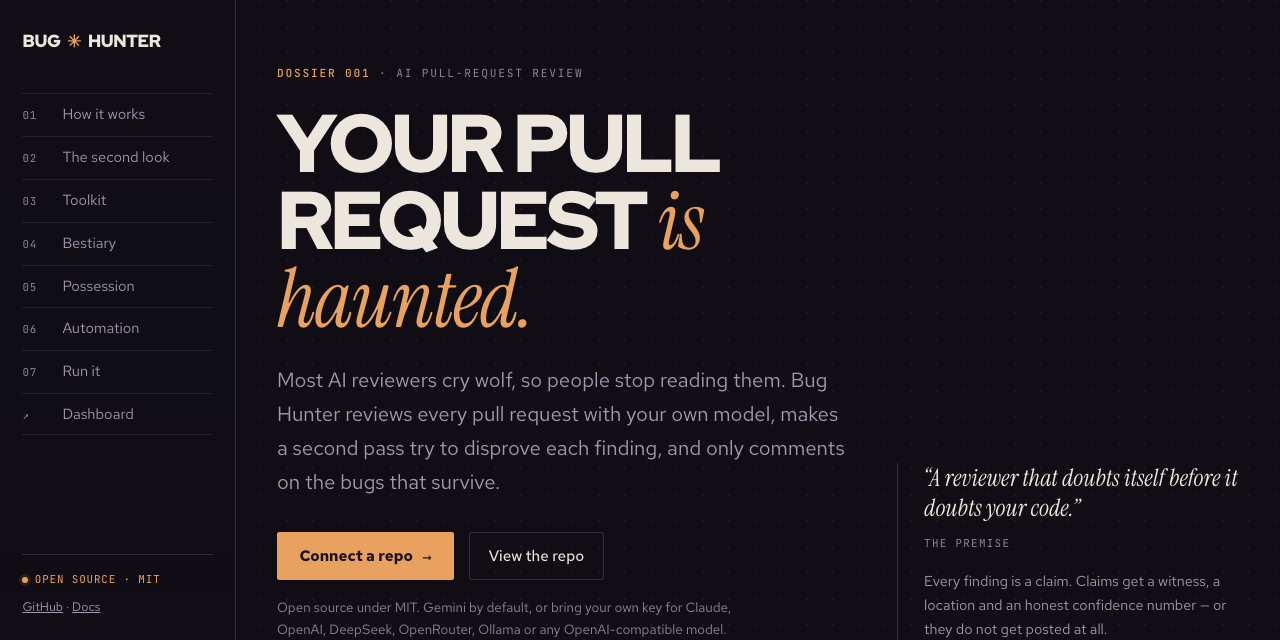
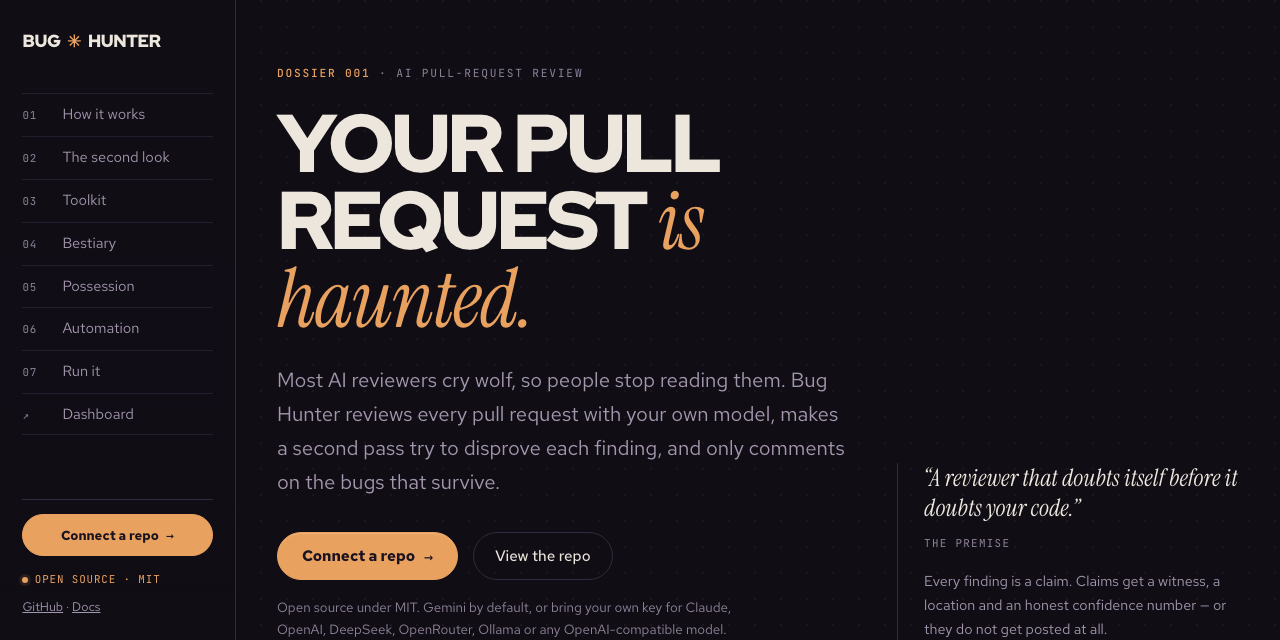
design: rounded, cleaner buttons across the site
- pill CTAs (999px) with inset highlight and a soft amber hover glow
- landing: rail gains a persistent Connect a repo pill; replay/copy/pipeline
  buttons are pills too
- app shell: every button/.btn/.btn-ghost is a pill; the top bar gains a
  Connect a repo CTA (hidden on /connect itself); hover uses the same glow
- fix .rail-foot a specificity so the rail CTA keeps its dark-on-amber label
- OG image regenerated

Changed region(s): [[0.0, 0.7812, 0.1875, 0.875], [0.2188, 0.8125, 0.4688, 0.9062]]

diff --git a/src/render/landing.html b/src/render/landing.html
@@ -93,6 +93,17 @@
   .rail-nav a:hover { color: var(--ink); padding-left: .3rem; }
   .rail-nav .n { font-family: var(--font-mono); font-size: .68rem; color: var(--dim); letter-spacing: .08em; }
   .rail-foot { border-top: 1px solid var(--line); padding-top: .9rem; font-size: .78rem; color: var(--dim); }
+  .rail-cta {
+    display: flex; align-items: center; justify-content: center; gap: .45rem;
+    min-height: 42px; margin-bottom: .8rem; border-radius: 999px;
+    background: var(--amber); color: #191220; border: 1px solid var(--amber);
+    font: 700 .82rem/1 var(--font-body); text-decoration: none;
+    transition: background-color .15s var(--ease), transform .15s var(--ease);
+  }
+  .rail-cta::after { content: "→"; font-family: var(--font-mono); font-weight: 400; }
+  .rail-foot a.rail-cta { color: #191220; text-decoration: none; }
+  .rail-foot a.rail-cta:hover { color: #191220; background: #f0b075; text-decoration: none; }
+  .rail-cta:active { transform: translateY(1px); }
   .rail-foot a { color: var(--muted); }
   .rail-foot .pulse {
     display: inline-flex; align-items: center; gap: .4rem;
@@ -146,21 +157,22 @@
   .hero-aside .byline { margin-top: .8rem; font-family: var(--font-mono); font-size: .68rem; letter-spacing: .12em; text-transform: uppercase; color: var(--dim); }
   .cta-row { display: flex; flex-wrap: wrap; align-items: center; gap: .9rem; margin-top: 2.1rem; }
   .btn {
-    display: inline-flex; align-items: center; gap: .6rem; min-height: 48px;
-    padding: .7rem 1.35rem; border: 1px solid var(--amber); background: var(--amber); color: #191220;
-    font: 700 .95rem/1 var(--font-body); text-decoration: none; border-radius: 2px;
-    transition: transform .15s var(--ease), background-color .15s var(--ease);
+    display: inline-flex; align-items: center; gap: .55rem; min-height: 48px;
+    padding: .78rem 1.5rem; border: 1px solid var(--amber); background: var(--amber); color: #191220;
+    font: 700 .95rem/1 var(--font-body); text-decoration: none; border-radius: 999px;
+    box-shadow: 0 1px 0 rgba(255, 255, 255, .18) inset;
+    transition: transform .15s var(--ease), background-color .15s var(--ease), box-shadow .15s var(--ease);
   }
   .btn::after { content: "→"; font-family: var(--font-mono); font-weight: 400; }
-  .btn:hover { background: #f0b075; }
+  .btn:hover { background: #f0b075; box-shadow: 0 6px 18px -10px rgba(233, 161, 95, .7); }
   .btn:active { transform: translateY(1px); }
   .btn-ghost {
-    display: inline-flex; align-items: center; min-height: 48px; padding: .7rem 1.2rem;
-    border: 1px solid var(--line); color: var(--ink); border-radius: 2px;
+    display: inline-flex; align-items: center; min-height: 48px; padding: .78rem 1.35rem;
+    border: 1px solid var(--line); color: var(--ink); border-radius: 999px;
     font: 500 .95rem/1 var(--font-body); text-decoration: none;
-    transition: border-color .15s var(--ease), color .15s var(--ease);
+    transition: border-color .15s var(--ease), color .15s var(--ease), background-color .15s var(--ease);
   }
-  .btn-ghost:hover { border-color: var(--amber); color: var(--amber); }
+  .btn-ghost:hover { border-color: var(--amber); color: var(--amber); background: rgba(233, 161, 95, .06); }
   .cta-note { margin-top: 1rem; font-size: .84rem; color: var(--dim); max-width: 52ch; }
 
   /* evidence exhibit */
@@ -205,7 +217,7 @@
   .replay {
     font: 500 .72rem/1 var(--font-mono); letter-spacing: .08em; text-transform: uppercase;
     color: var(--ink); background: transparent; border: 1px solid var(--line);
-    padding: .5rem .8rem; cursor: pointer; border-radius: 2px; min-height: 40px;
+    padding: .55rem 1rem; cursor: pointer; border-radius: 999px; min-height: 40px;
   }
   .replay:hover { border-color: var(--amber); color: var(--amber); }
   .replay:disabled { opacity: .5; cursor: default; }
@@ -348,7 +360,7 @@
   .btn-line {
     font: 500 .78rem/1 var(--font-mono); letter-spacing: .08em; text-transform: uppercase;
     background: transparent; border: 1px solid var(--line); color: var(--ink);
-    padding: .55rem .8rem; cursor: pointer; border-radius: 2px; min-height: 40px;
+    padding: .6rem 1rem; cursor: pointer; border-radius: 999px; min-height: 40px;
   }
   .btn-line:hover { border-color: var(--amber); color: var(--amber); }
   .btn-line:disabled { opacity: .5; cursor: default; }
@@ -449,6 +461,7 @@
     </nav>
   </div>
   <div class="rail-foot">
+    <a class="rail-cta" href="#connect">Connect a repo</a>
     <span class="pulse">Open source · MIT</span>
     <p><a href="#repo" id="repo-link-rail">GitHub</a> · <a href="https://github.com/dk3yyyy/bug-hunter/tree/main/docs">Docs</a></p>
   </div>

diff --git a/src/render/pages.ts b/src/render/pages.ts
@@ -45,6 +45,7 @@ a:hover{text-decoration:underline;text-underline-offset:3px}
 .nav{display:flex;gap:1.2rem;flex-wrap:wrap;margin-left:auto}
 .nav a{font-family:var(--font-mono);font-size:.7rem;letter-spacing:.1em;text-transform:uppercase;color:var(--muted)}
 .nav a:hover{color:var(--ink);text-decoration:none}
+.bar .btn{min-height:38px;padding:.5rem 1rem;font-size:.8rem}
 .tag{font-family:var(--font-mono);font-size:.62rem;letter-spacing:.1em;text-transform:uppercase;color:var(--dim);border:1px solid var(--line);padding:.2rem .5rem}
 .eyebrow{display:block;margin:2.4rem 0 0;font-family:var(--font-mono);font-size:.68rem;letter-spacing:.14em;text-transform:uppercase;color:var(--dim)}
 .eyebrow b{color:var(--accent);font-weight:500}
@@ -64,12 +65,12 @@ p{max-width:70ch}
 label{display:block;margin:.9rem 0 .35rem;font-family:var(--font-mono);font-size:.64rem;letter-spacing:.1em;text-transform:uppercase;color:var(--dim)}
 input,textarea{display:block;width:100%;min-height:46px;margin:0 0 .7rem;padding:.65rem .8rem;border:1px solid var(--line);border-radius:2px;background:transparent;color:var(--ink);font:inherit;transition:border-color .15s var(--ease)}
 input:focus{border-color:var(--accent);outline:none}
-button,.btn{display:inline-flex;align-items:center;gap:.5rem;background:var(--accent);color:var(--accent-ink);border:1px solid var(--accent);border-radius:2px;min-height:46px;padding:.65rem 1.15rem;font:700 .9rem/1 var(--font-body);cursor:pointer;text-decoration:none;transition:transform .12s var(--ease),background-color .15s var(--ease)}
-button:hover,.btn:hover{background:#f0b075;text-decoration:none}
+button,.btn{display:inline-flex;align-items:center;gap:.45rem;background:var(--accent);color:var(--accent-ink);border:1px solid var(--accent);border-radius:999px;min-height:46px;padding:.72rem 1.3rem;font:700 .9rem/1 var(--font-body);cursor:pointer;text-decoration:none;box-shadow:0 1px 0 rgba(255,255,255,.18) inset;transition:transform .12s var(--ease),background-color .15s var(--ease),box-shadow .15s var(--ease)}
+button:hover,.btn:hover{background:#f0b075;text-decoration:none;box-shadow:0 6px 18px -10px rgba(233,161,95,.7)}
 button:active,.btn:active{transform:translateY(1px)}
 button:disabled{opacity:.55;cursor:not-allowed}
-.btn-ghost{display:inline-flex;align-items:center;min-height:46px;padding:.65rem 1.1rem;border:1px solid var(--line);border-radius:2px;color:var(--ink);font-weight:500;font-size:.9rem;text-decoration:none}
-.btn-ghost:hover{border-color:var(--accent);color:var(--accent);text-decoration:none}
+.btn-ghost{display:inline-flex;align-items:center;min-height:46px;padding:.72rem 1.2rem;border:1px solid var(--line);border-radius:999px;color:var(--ink);font-weight:500;font-size:.9rem;text-decoration:none;transition:border-color .15s var(--ease),color .15s var(--ease),background-color .15s var(--ease)}
+.btn-ghost:hover{border-color:var(--accent);color:var(--accent);background:rgba(233,161,95,.06);text-decoration:none}
 .result{margin-top:.9rem;padding:.75rem .9rem;border:1px solid var(--line);border-left:2px solid var(--accent);font-size:.88rem;color:var(--ink)}
 .result:empty{display:none}
 details{margin:0 0 1rem}
@@ -110,7 +111,7 @@ th{font-family:var(--font-mono);font-size:.6rem;letter-spacing:.08em;text-transf
 }
 `;
 
-function shell(title: string, body: string): string {
+function shell(title: string, body: string, showCta = true): string {
   return `<!doctype html>
 <html lang="en">
 <head>
@@ -136,6 +137,7 @@ function shell(title: string, body: string): string {
     <a href="/connect">Connect</a>
     <a href="/dashboard">Dashboard</a>
   </nav>
+  ${showCta ? '<a class="btn" href="/connect">Connect a repo</a>' : ""}
   <span class="tag">Open source · MIT</span>
 </header>
 <main>${body}</main>
@@ -445,7 +447,7 @@ ${loginCard}
 })();
 </script>`;
 
-  return shell("Bug Hunter — Connect a repo", body);
+  return shell("Bug Hunter — Connect a repo", body, false);
 }
 
 function escapeHtml(s: string): string {
